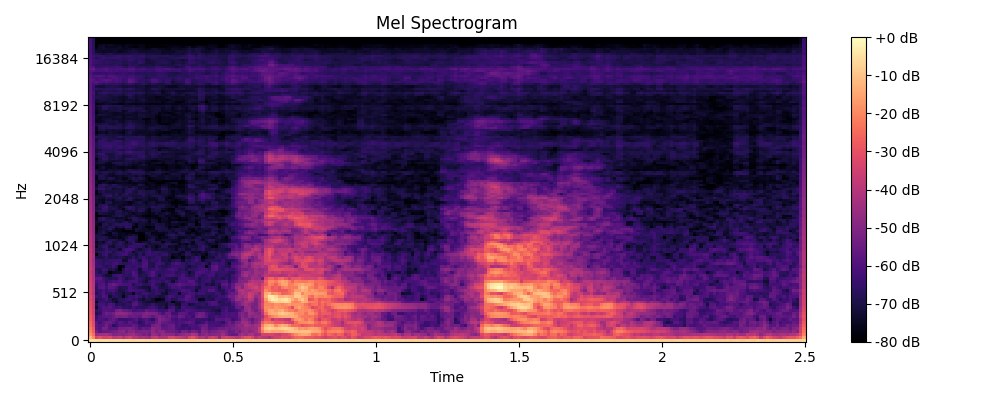
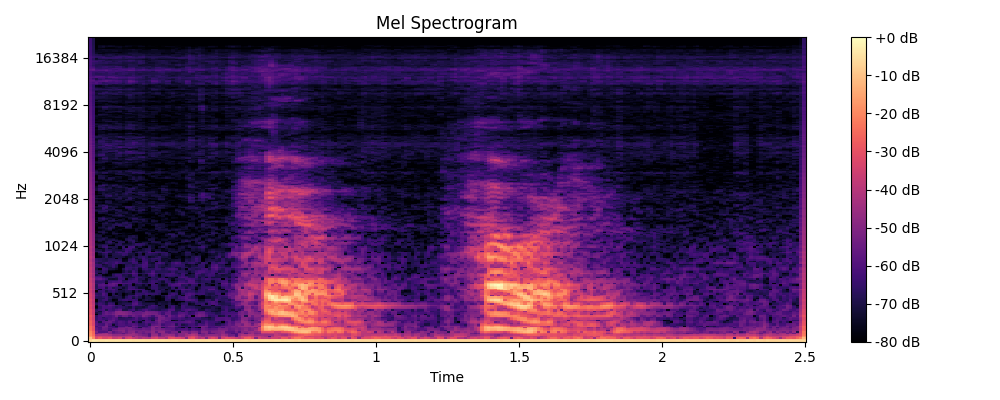
Adding Mel spectrogram analisys

Changed region(s): [[0.031, 0.12, 0.806, 0.84]]

diff --git a/utils.py b/utils.py
@@ -92,12 +92,12 @@ def plot_spectrogram(audio_file_path, duration, timestamp, logger, sr):
     plt.savefig(f'{timestamp}/spectrogram_{timestamp}.png')  # Save the plot
     logger.info("Spectrogram saved")
 
-def plot_mel_spectrogram(audio_file_path, timestamp, logger, sr, n_mels=128):
+def plot_mel_spectrogram(audio_file_path, timestamp, logger, sr, n_mels=256, n_fft=2048, hop_length=512):
     # Load audio data
     audio_data, _ = sf.read(audio_file_path)
 
     # Compute the Mel spectrogram
-    S = librosa.feature.melspectrogram(y=audio_data, sr=sr, n_mels=n_mels)
+    S = librosa.feature.melspectrogram(y=audio_data, sr=sr, n_mels=n_mels, n_fft=n_fft, hop_length=hop_length)
     S_dB = librosa.power_to_db(S, ref=np.max)
 
     # Plotting
@@ -110,6 +110,7 @@ def plot_mel_spectrogram(audio_file_path, timestamp, logger, sr, n_mels=128):
     # Save the Mel Spectrogram plot
     plt.savefig(f'{timestamp}/mel_spectrogram_{timestamp}.png')
     logger.info("Mel Spectrogram plot saved")
+
 
 def plot_mfcc(audio_file_path, timestamp, logger, sr, n_mfcc=18):
     audio_data, _ = sf.read(audio_file_path)
